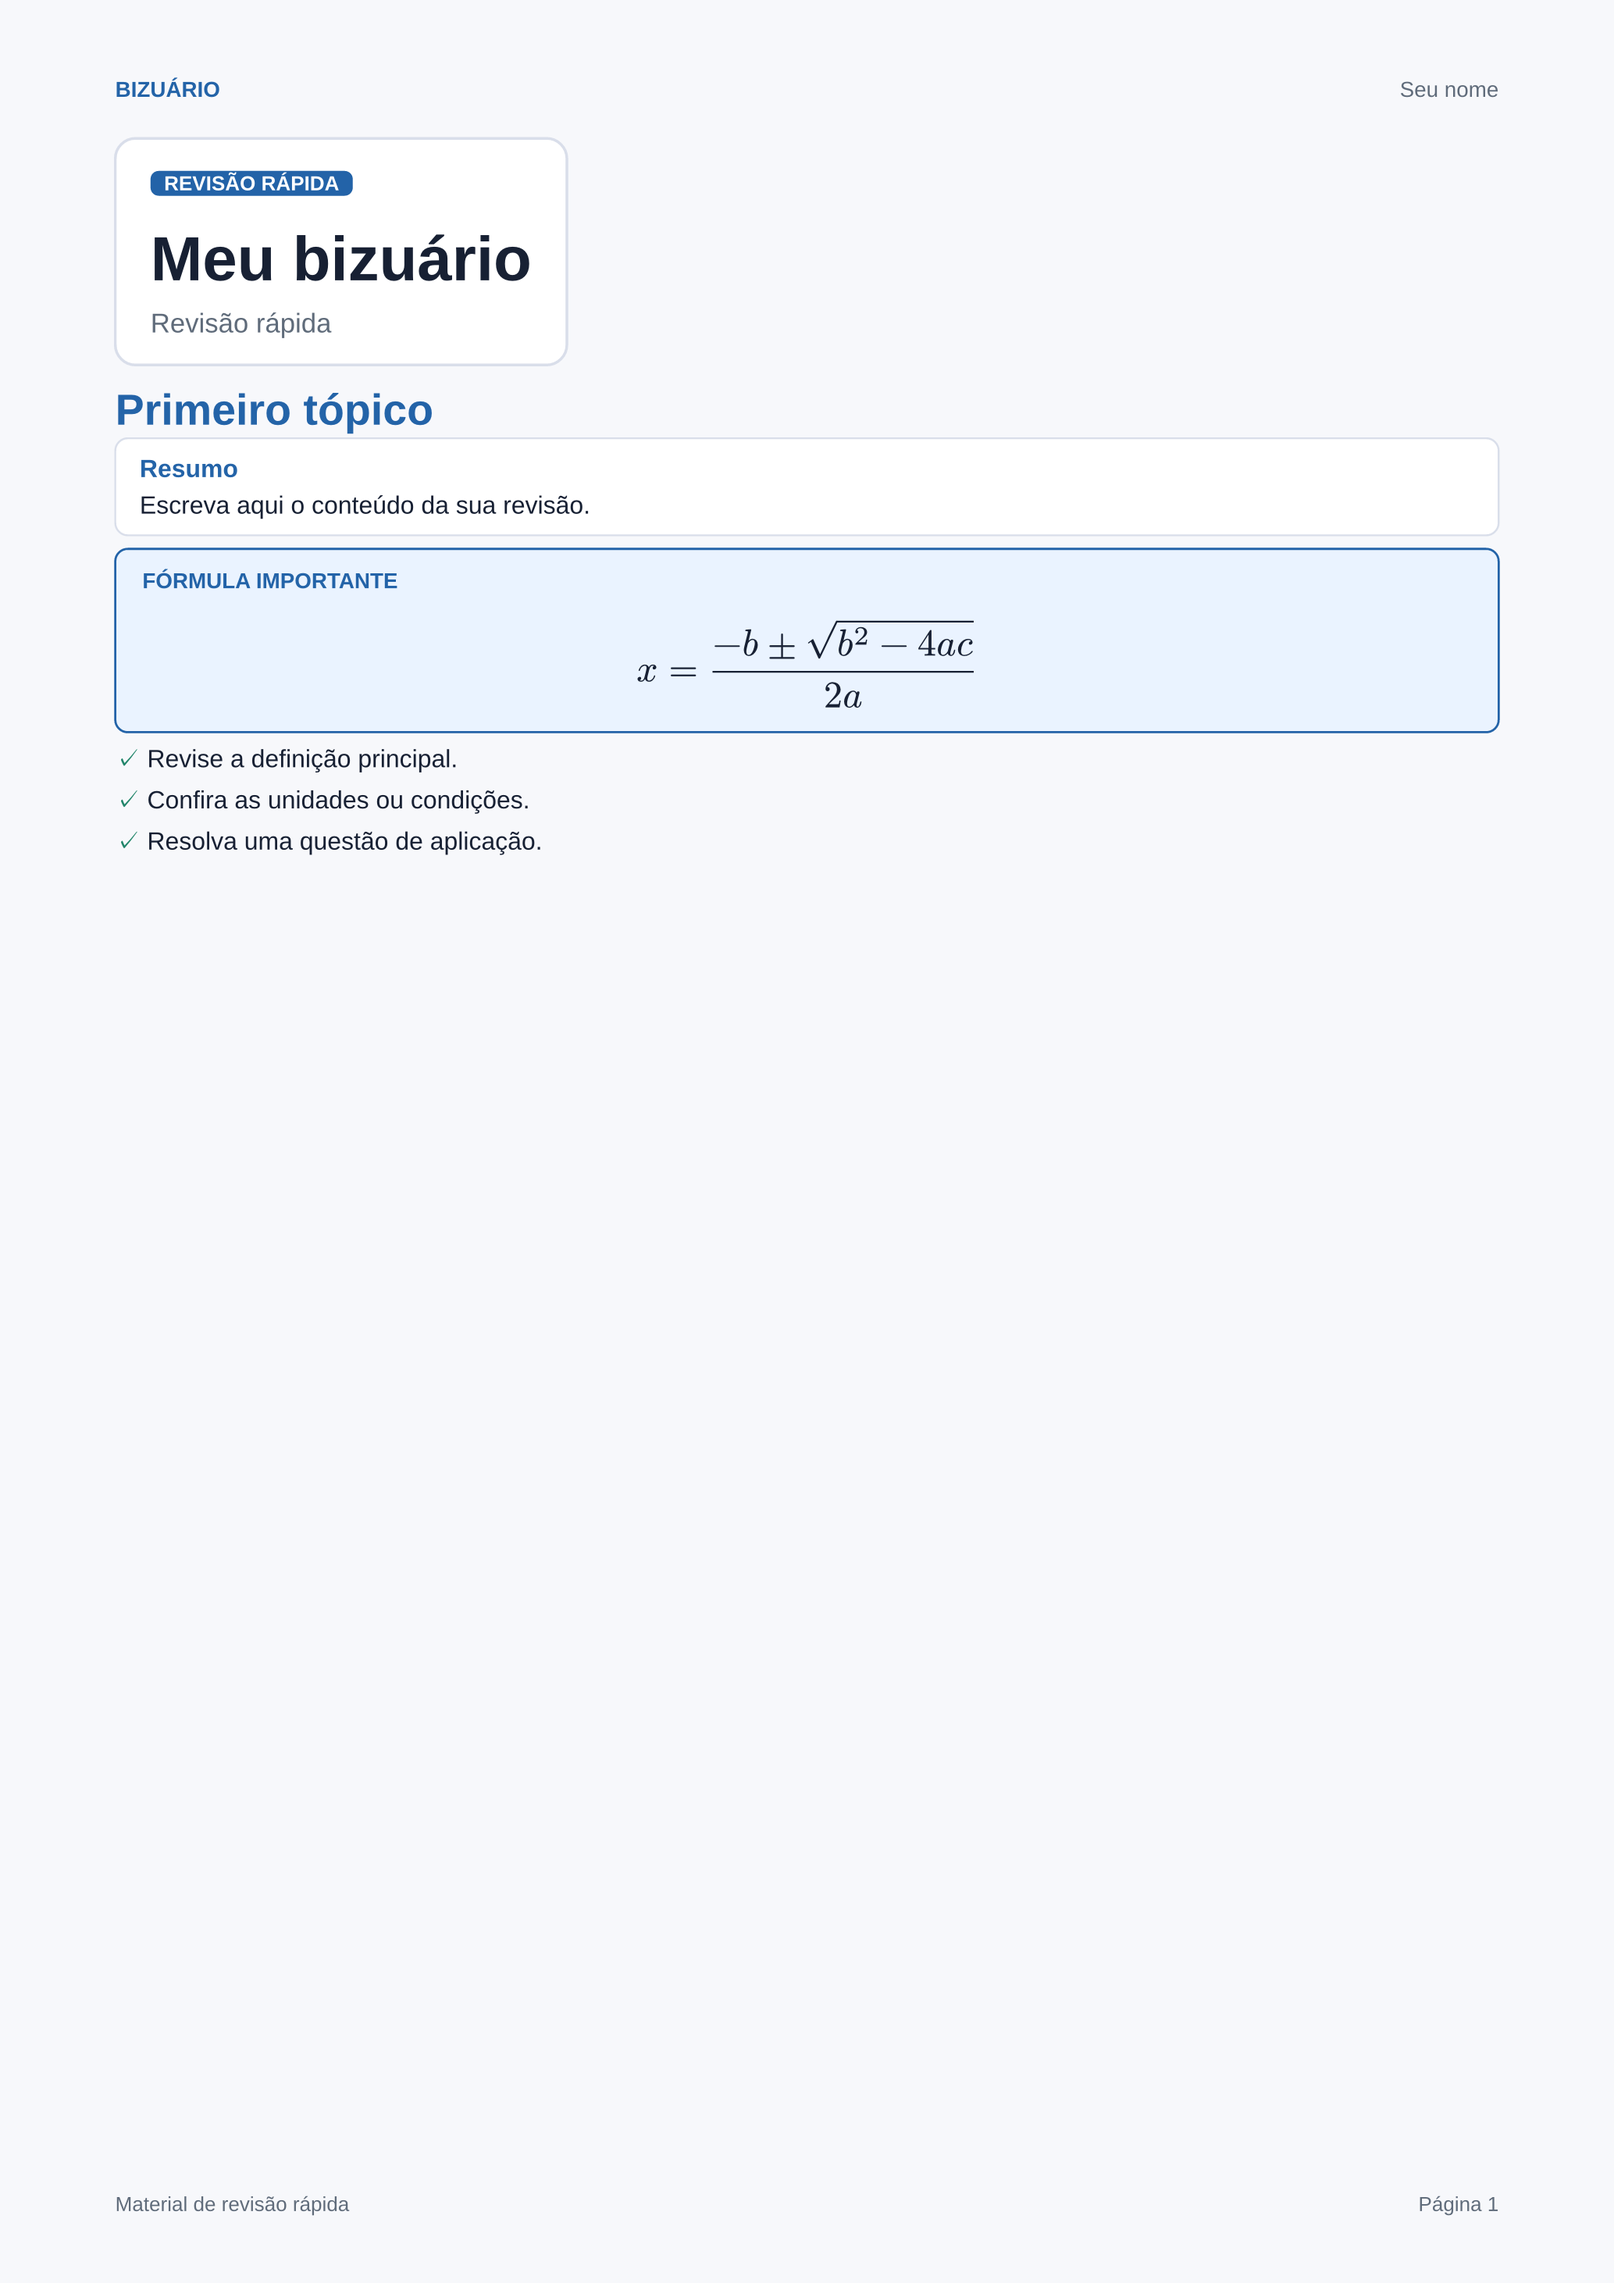
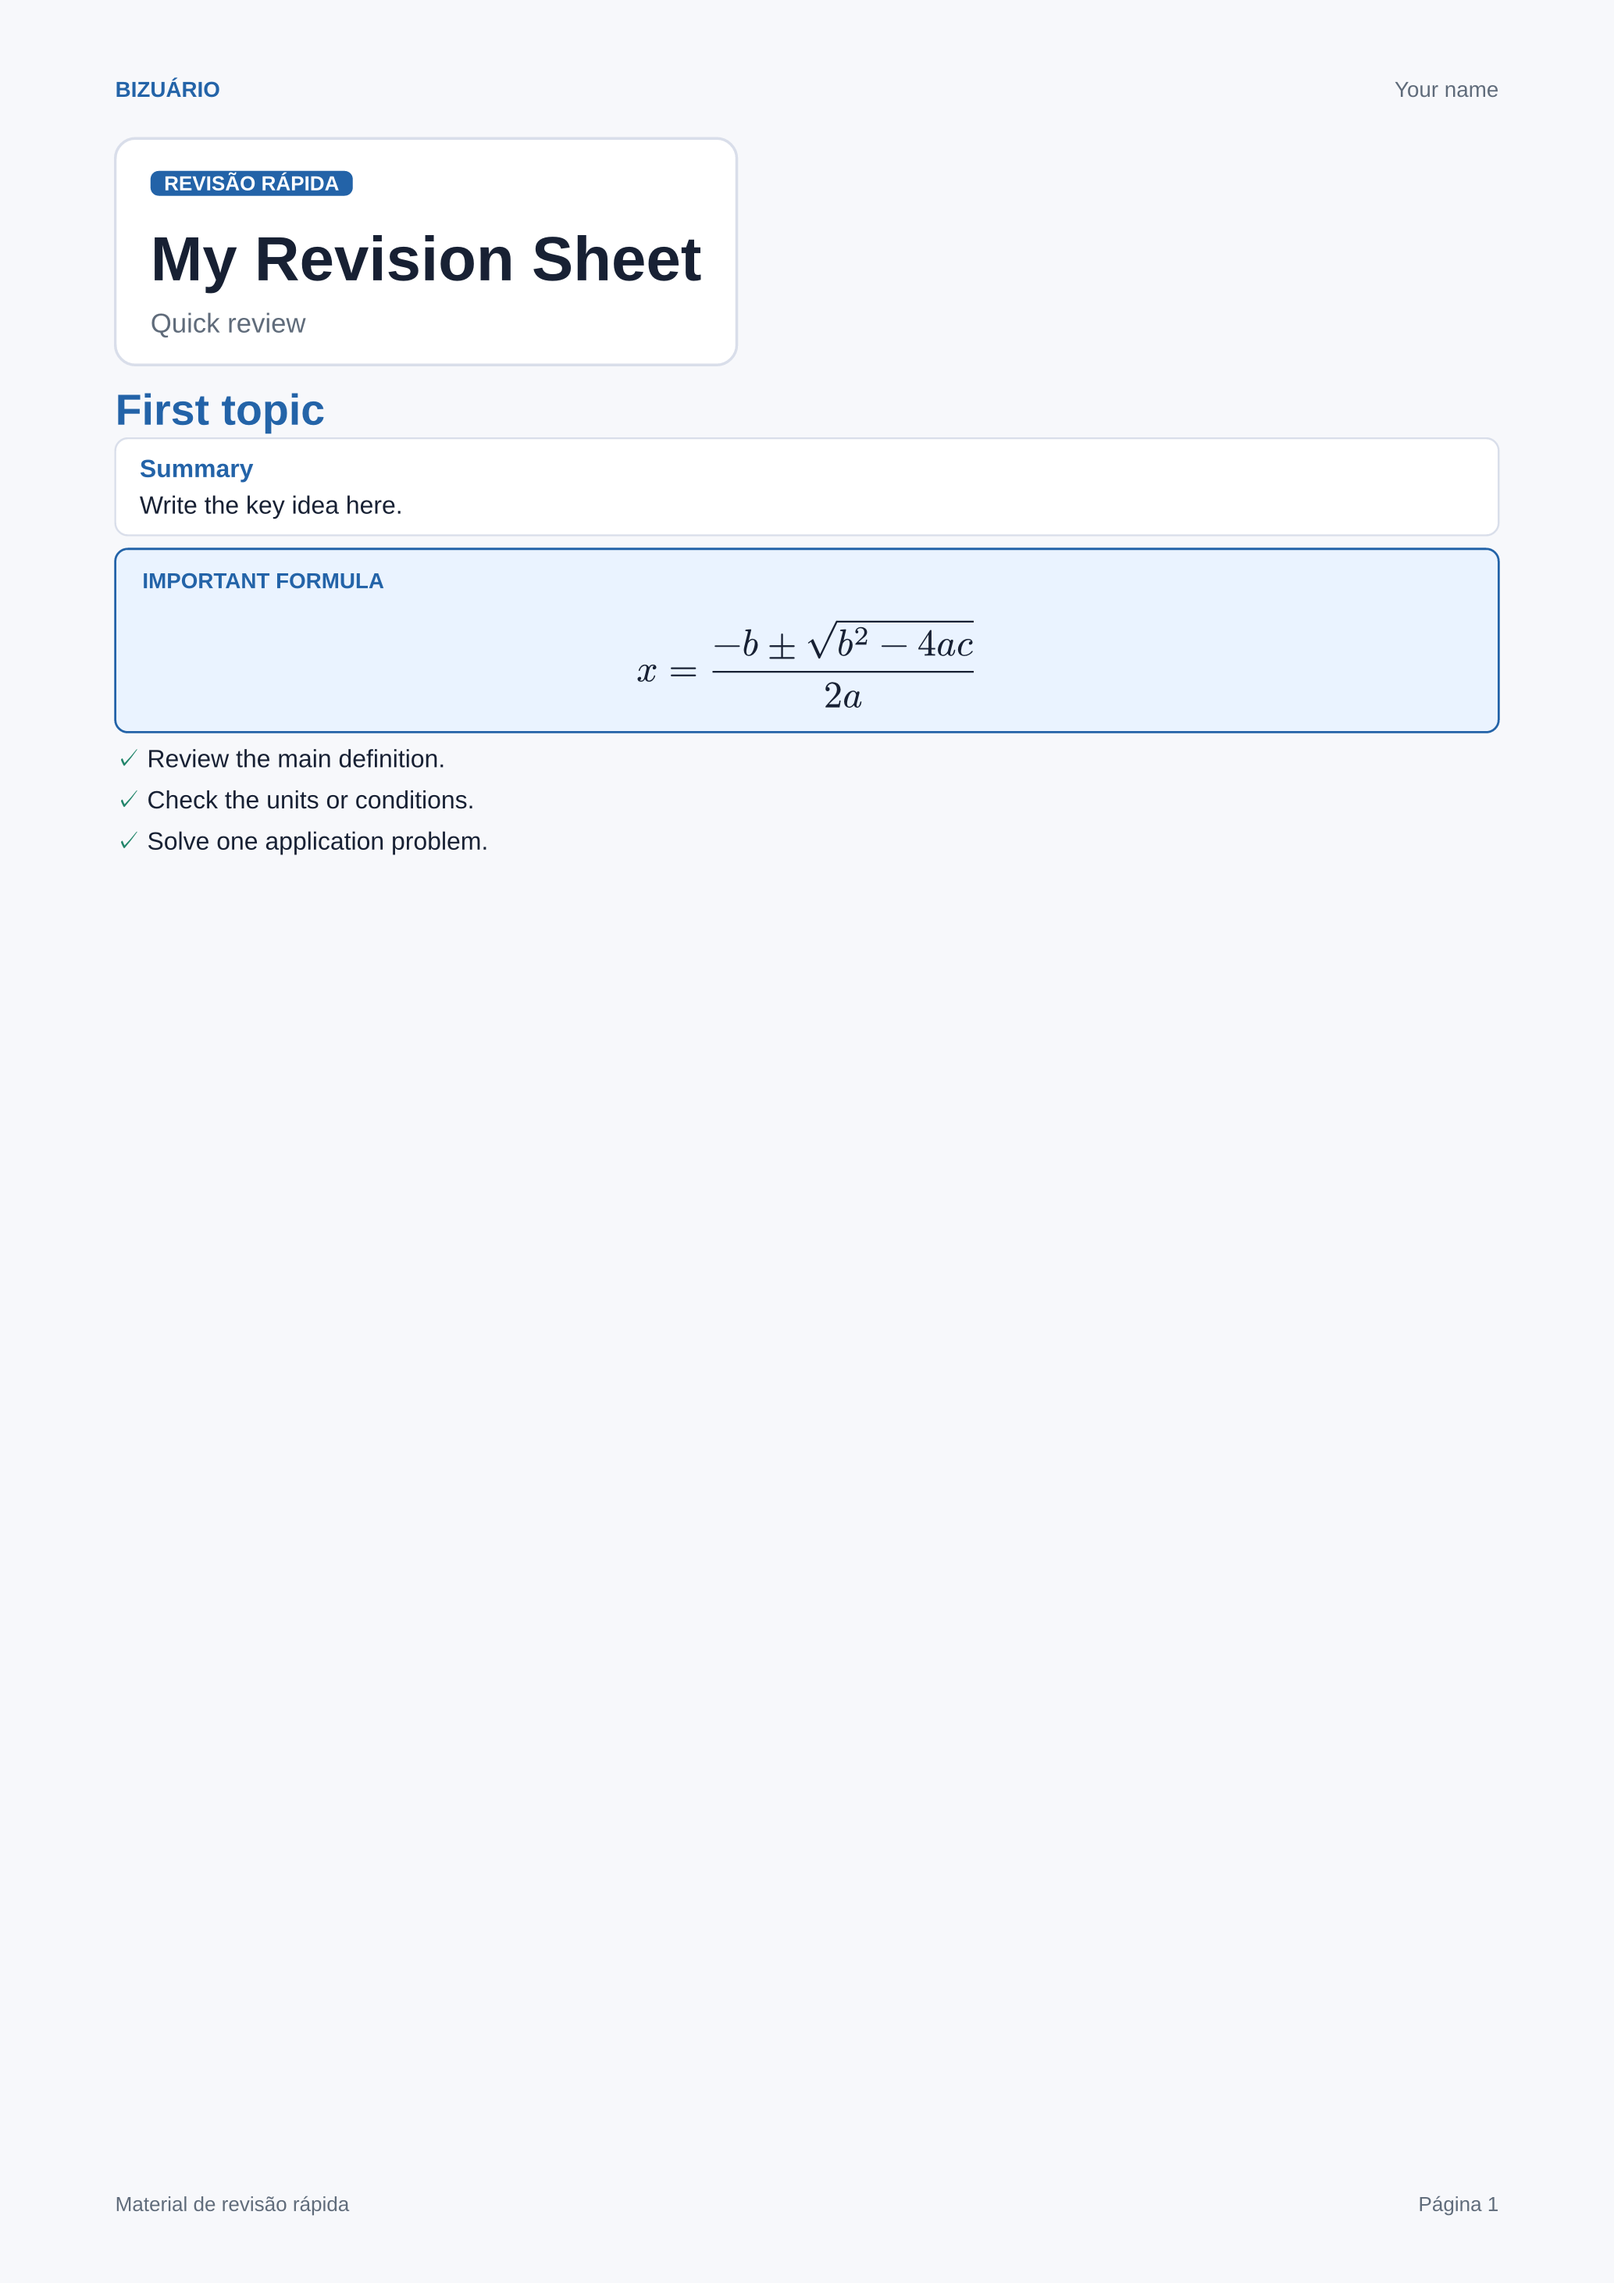
Add English API aliases and documentation

Changed region(s): [[0.0929, 0.0934, 0.4335, 0.2802], [0.0929, 0.3113, 0.3406, 0.3736]]

diff --git a/README.md b/README.md
@@ -1,43 +1,95 @@
 # bizu-sheet
 
-Create compact revision sheets with cards, formulas, units, and checklists.
+Create compact revision sheets with cards, formulas, units, comparisons, and checklists.
 
-## Usage
+## Quick start
+
+Import the package with its full version:
 
 ```typst
 #import "@preview/bizu-sheet:0.1.0": *
 
-#show: bizuario.with(
-  title: "Álgebra",
-  subtitle: "Revisão rápida",
+#show: cheat_sheet.with(
+  title: "Algebra",
+  subtitle: "Quick revision",
+  author: "Your name",
 )
 
-#b-formula(
-  title: "Bhaskara",
+= Key formula
+
+#formula(
+  title: "Quadratic formula",
   $ x = (-b plus.minus sqrt(b^2 - 4 a c)) / (2 a) $,
+  note: [Check the discriminant before solving.],
 )
 ```
 
-## Components
+## English API
 
-- `bizuario`
-- `b-card`
-- `b-alert`
-- `b-definition`
-- `b-mnemonic`
-- `b-compare`
-- `b-table`
-- `b-checklist`
-- `b-columns`
-- `b-formula`
-- `b-result`
-- `b-steps`
-- `b-unit`
-- `b-constant`
-- `b-condition`
-- `b-formula-pair`
+The package provides English names for new projects:
 
-The package is designed for Portuguese-language revision sheets, while the components can be used in any language.
+| Function | Purpose |
+|---|---|
+| `cheat_sheet` | Apply the page layout, typography, header, footer, and title block. |
+| `card` | Create a compact revision card. |
+| `alert` | Highlight a warning, exception, or common mistake. |
+| `definition` | Create a definition card. |
+| `mnemonic` | Display a mnemonic and its explanation. |
+| `compare` | Compare two concepts in parallel columns. |
+| `data_table` | Create a styled summary table. |
+| `checklist` | Create a revision checklist. |
+| `columns` | Place two blocks side by side. |
+| `formula` | Highlight a mathematical formula. |
+| `result` | Display a final calculation result. |
+| `steps` | Organize a solution into numbered steps. |
+| `unit` | Summarize a unit, relation, and example. |
+| `constant` | Present a useful constant or numerical approximation. |
+| `condition` | Highlight a hypothesis, domain, or validity condition. |
+| `formula_pair` | Place two formulas side by side. |
+| `pagebreak` | Insert an explicit page break. |
+| `small` | Render auxiliary text at a smaller size. |
+
+All English names are aliases for the original API. The existing `bizuario`, `b-card`, `b-alert`, `b-formula`, and other `b-*` names remain available for backward compatibility.
+
+## Tones
+
+`card` and `alert` support the tones `info`, `success`, `warning`, `danger`, and `neutral`.
+
+## Mathematics and physics
+
+Pass mathematical content between `$...$`:
+
+```typst
+#formula(
+  title: "Kinetic energy",
+  $ E_c = (m v^2) / 2 $,
+  note: [Use compatible units for mass and velocity.],
+)
+
+#steps((
+  [Isolate the unknown.],
+  [Convert all quantities to compatible units.],
+  [Substitute the values.],
+  [Check the final unit and order of magnitude.],
+))
+
+#result($ v = 12 "m" / "s" $, condition: [SI units])
+```
+
+## Template projects
+
+Start a new project from the template with:
+
+```bash
+typst init @preview/bizu-sheet:0.1.0 my-revision-sheet
+```
+
+Then compile it with:
+
+```bash
+cd my-revision-sheet
+typst compile main.typ
+```
 
 ## License
 
